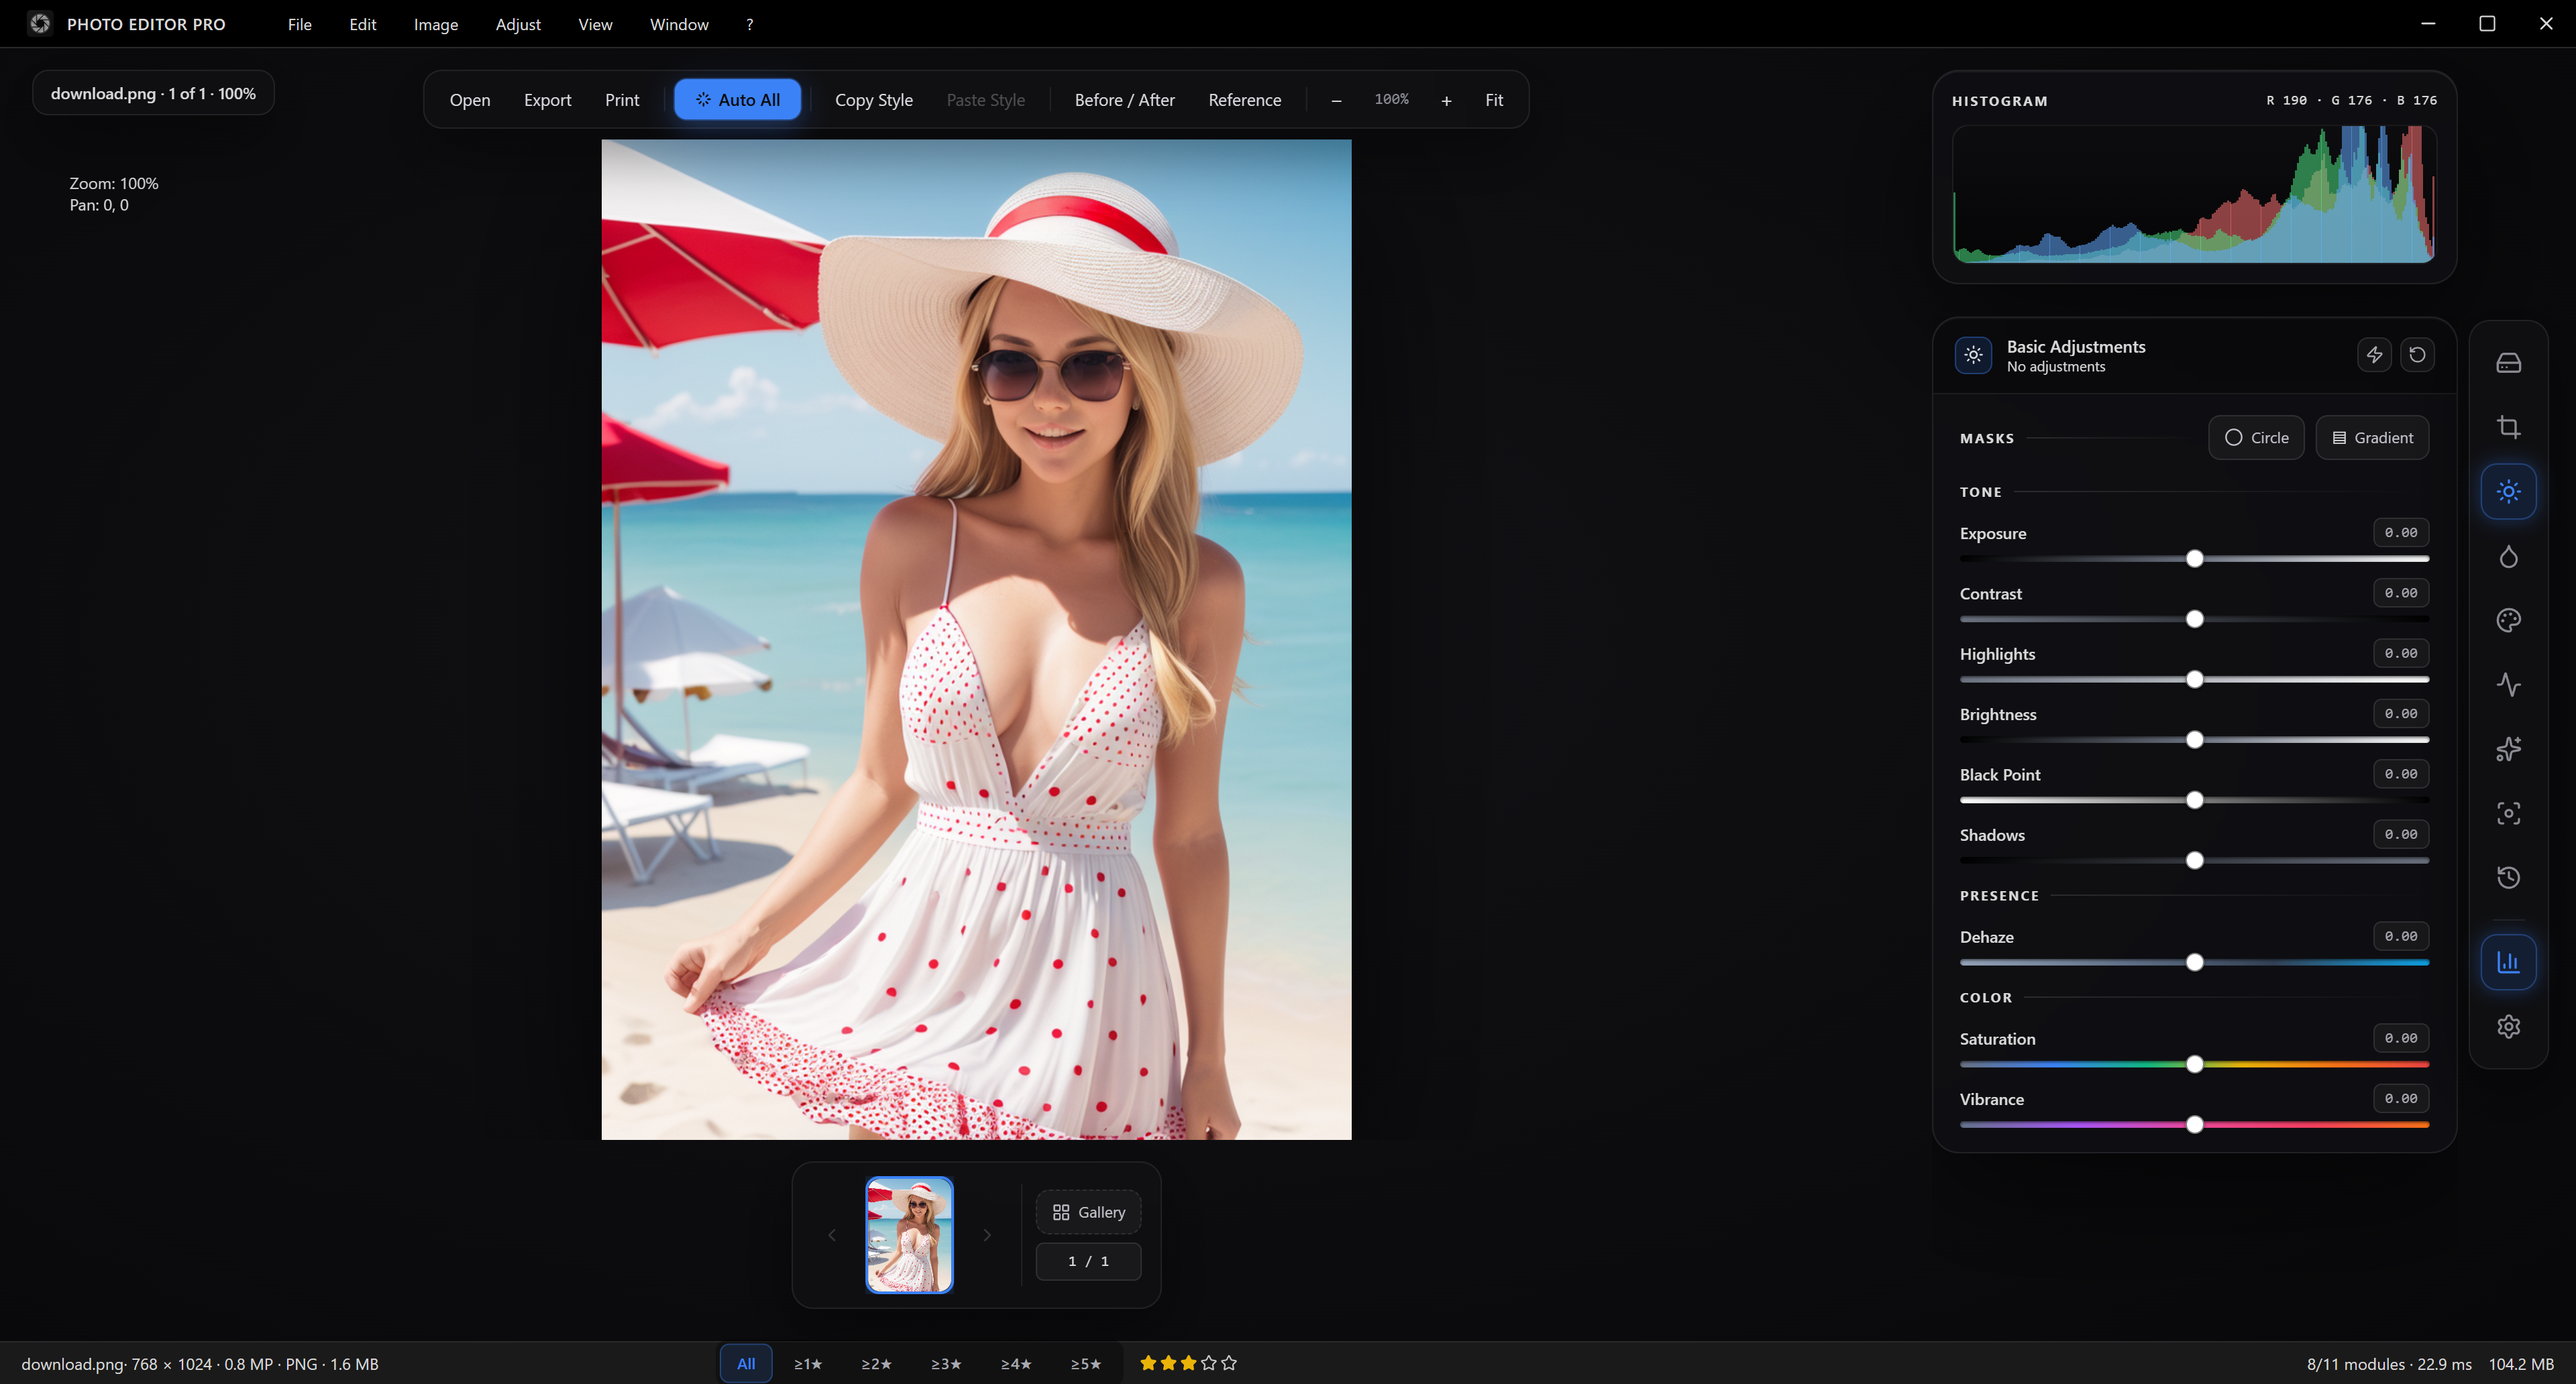
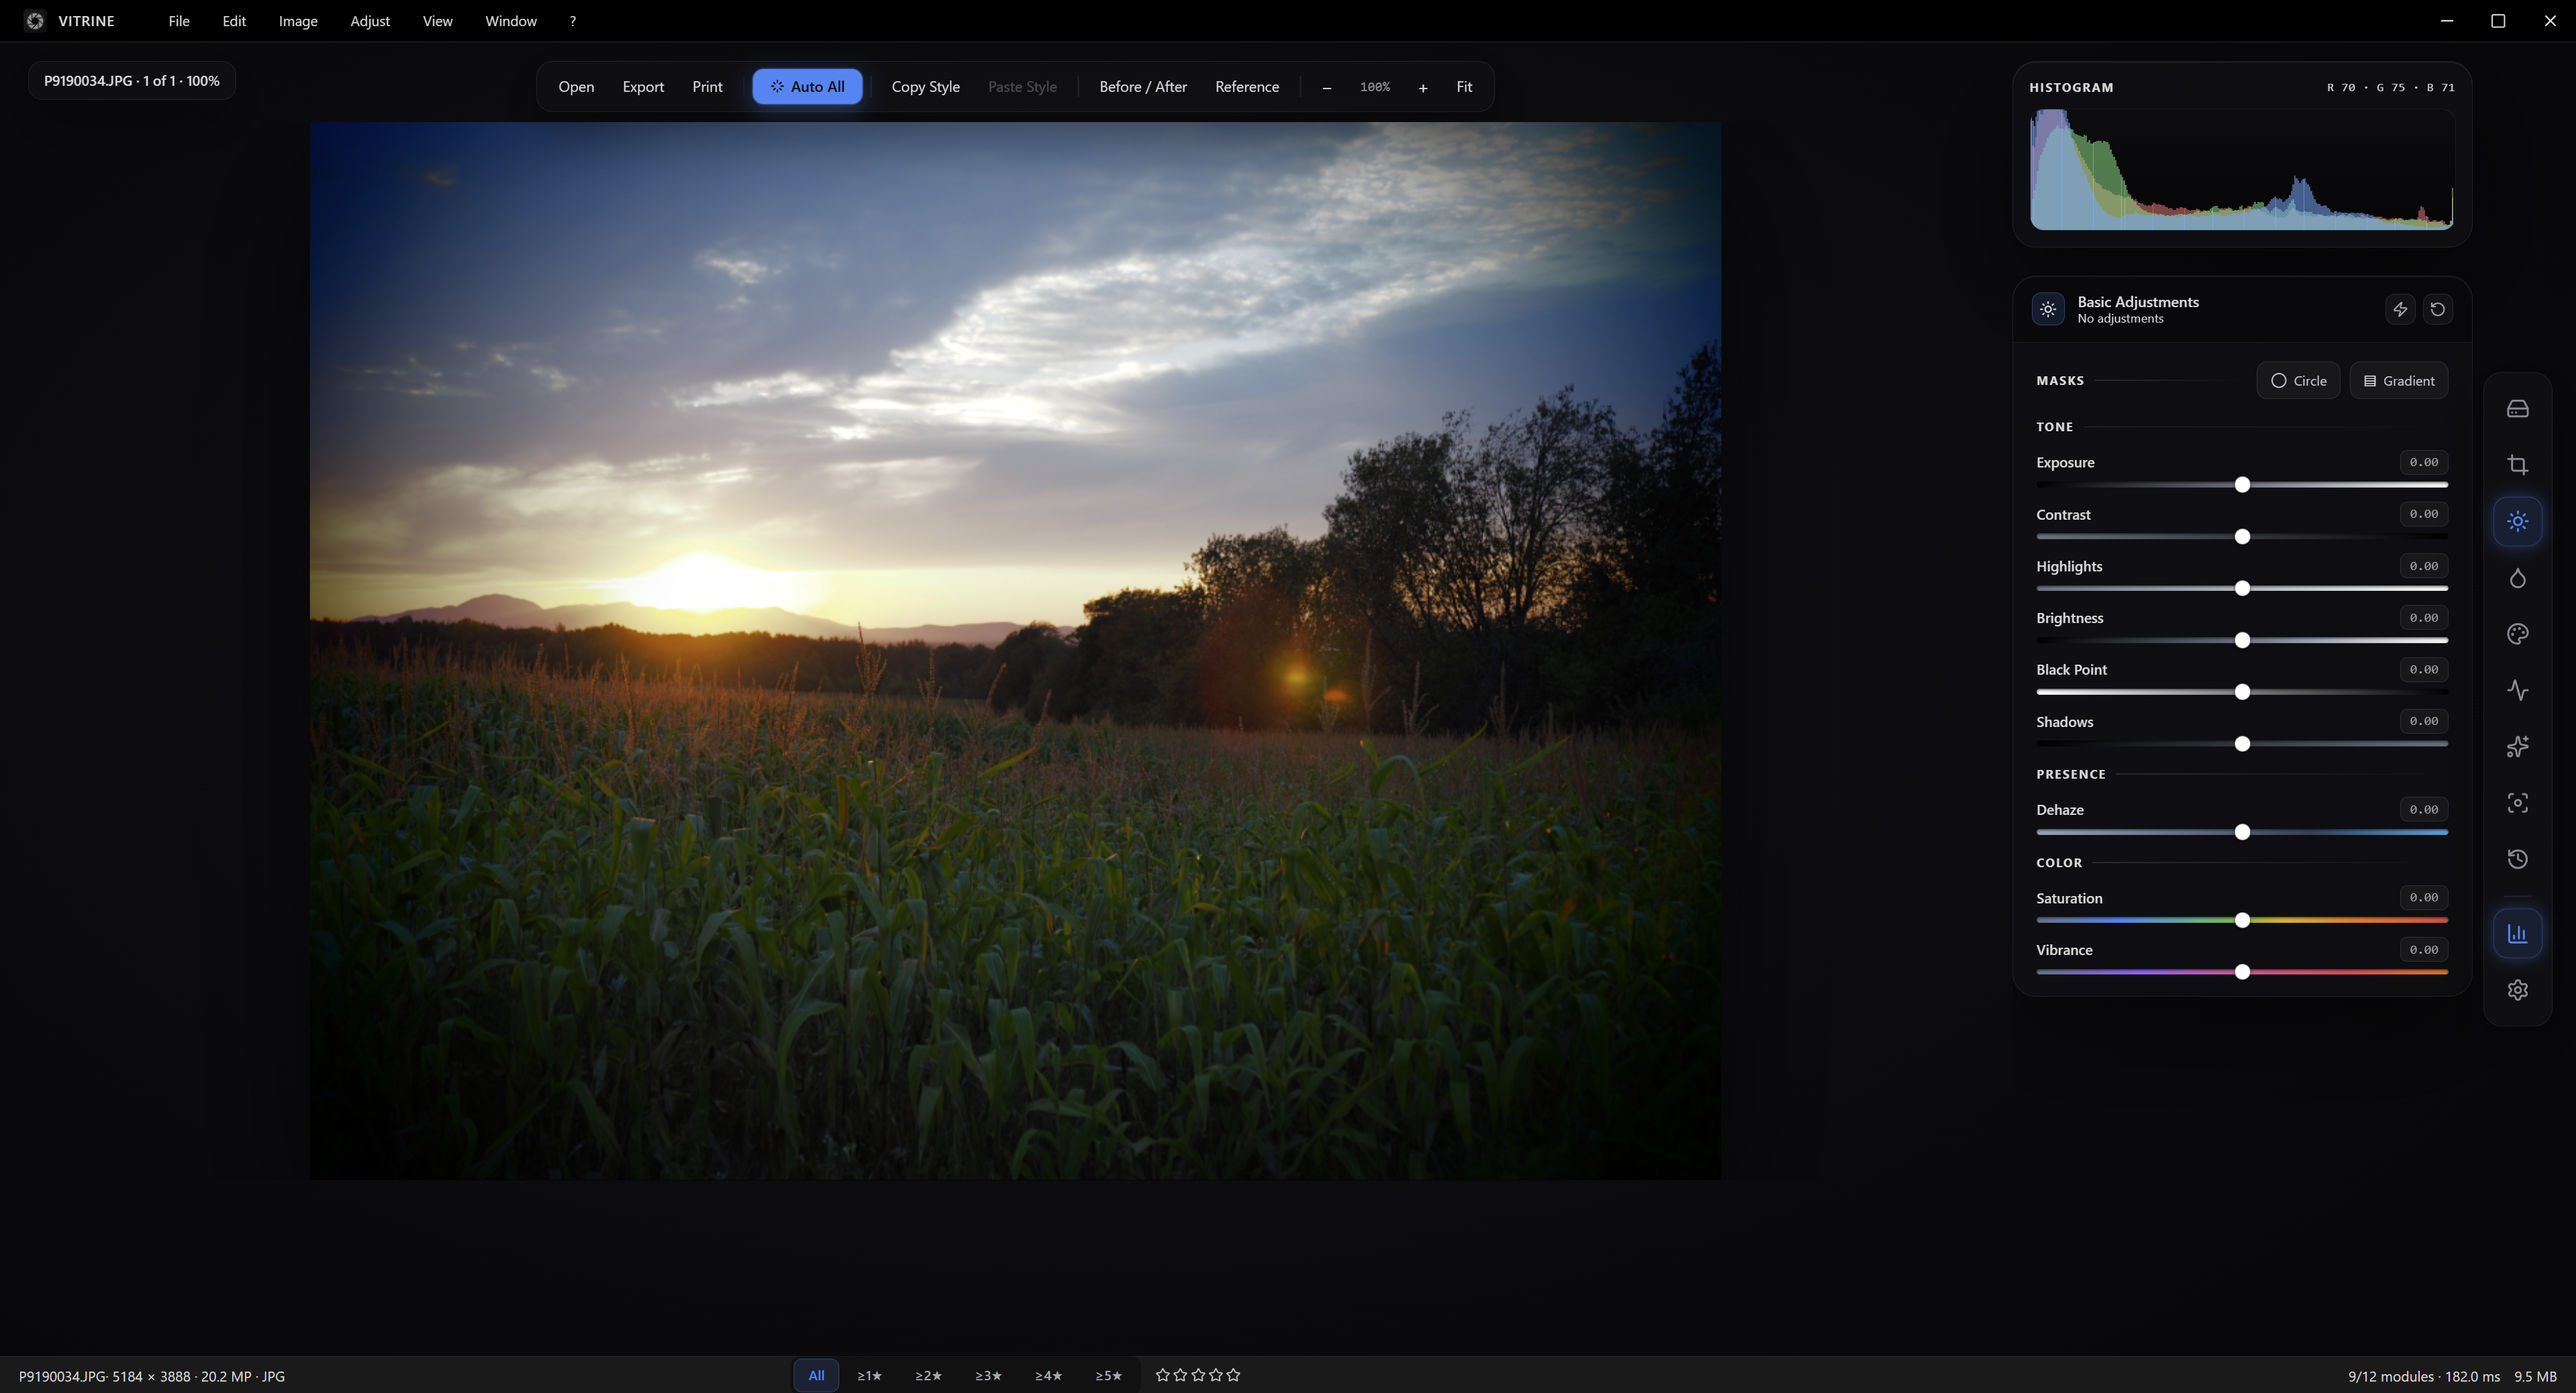
docs(readme): approachable rewrite + fresh Vitrine screenshots
The README hero still showed the old 'Photo Editor Pro' wordmark and led with
developer-speak; the GitHub About was empty. Rework for a newcomer:

- Recapture every screenshot from the current (Vitrine-branded) app. Hero +
  adjustment/tool crops use a finished JPG (the app displays it as-is, showing
  the developed look); the RAW-only shots (RAW Decode panel, camera/lens EXIF)
  and the raw->developed Before/After use a native Olympus ORF.
- Rewrite the top: a photographer-facing pitch + a 'Why Vitrine' highlights
  list, replacing the Electron/WebGL jargon.
- Lead Installation with the one-step download; scope dev prerequisites to the
  build-from-source path; fix the stale 'cd photo_app' -> 'cd vitrine', the
  1.11.0 -> 1.24.0 installer name, cross-platform -> Windows, and the 1087 ->
  1834 test count.
- Add an 'A closer look' visual showcase (before/after, RAW features, and a
  six-panel tool grid).
- Add scripts/capture-shots.cjs (Playwright _electron) to regenerate these
  shots; photo paths come from SHOT_GENERAL / SHOT_RAW env vars.

GitHub About (description + 16 topics) set separately via the API.

diff --git a/README.md b/README.md
@@ -15,50 +15,83 @@
 
 ![Vitrine](docs/screenshot.png)
 
-**Vitrine** — the darkroom, behind glass.
+> **Vitrine** — *the darkroom, behind glass.*
 
-A **desktop RAW photo editor** built with Electron + React, featuring a WebGL2/CPU
-processing pipeline, native LibRaw demosaicing, colour-managed export, and
-non-destructive local adjustments.
+**Vitrine is a free RAW photo editor for Windows.** Open a photo straight off your
+camera — Olympus, Canon, Nikon, Sony, Panasonic, or Adobe DNG — and develop it
+non-destructively: exposure and colour, tone curves, local masks, lens fixes, AI
+denoise and upscaling, then export in the format and colour space you need. Every
+edit is saved per photo and re-applied when you reopen it; your original file is
+never touched.
 
-*A free, non-destructive RAW photo editor for Windows — a lightweight alternative to Lightroom and darktable for Olympus ORF, Canon CR2/CR3, Nikon NEF, Sony ARW, and Adobe DNG files.*
+It's a lightweight, no-subscription alternative to Lightroom and darktable, with a
+clean full-screen **glass workspace** that keeps every tool one click away.
+
+### Why Vitrine
+
+- 📷 **Real RAW** — native LibRaw decoding for 15+ camera formats (CR2/CR3, NEF, ARW, ORF, DNG, RW2, PEF…), with per-photo demosaic and highlight-recovery control.
+- ⚡ **Fast** — a GPU pipeline develops your edits in real time; RAW files open in ~0.5 s (embedded preview) while the full 16-bit decode swaps in behind the scenes.
+- ✨ **AI where it counts** — Real-ESRGAN ×2/×4 super-resolution and NAFNet motion-deblur run on your GPU, alongside classic denoise, sharpen, and dehaze.
+- 🎨 **Truly non-destructive** — adjustments are stored per image and replayed on reopen; the source file is never modified.
+- 🆓 **Free, no account** — download the installer and start editing. No sign-up, no subscription.
 
 ## Installation
 
-### Prerequisites
-- Node.js 18+ and a package manager (the repo is set up for **pnpm**; npm also works)
-- Windows, macOS, or Linux · 8 GB+ RAM (16 GB+ recommended for large RAW files)
+### Download (recommended)
 
-### Option A — Prebuilt installer (Windows)
+**Just want to use Vitrine?** Download the latest **`Vitrine Setup X.Y.Z.exe`** from the
+[**Releases**](https://github.com/Redrum624/vitrine/releases) page and run it — no other
+software required. The installer adds a desktop shortcut and a Start Menu entry.
 
-Download the latest `Vitrine Setup X.Y.Z.exe` from the
-[Releases](https://github.com/Redrum624/vitrine/releases) page and run it.
-The installer creates a desktop shortcut and Start Menu entry; no extra
-dependencies are needed.
+- **Windows 10 or 11** (64-bit)
+- 8 GB RAM minimum · 16 GB+ recommended for large RAW files
 
-### Option B — Install & run from source (development)
+### Build from source
+
+For development, or to build your own installer. Requires **Node.js 18+** (the repo uses
+**pnpm**; npm also works). Windows is the supported target.
 
 ```bash
 git clone https://github.com/Redrum624/vitrine.git
-cd photo_app
+cd vitrine
 pnpm install            # or: npm install
-pnpm run electron-dev   # Vite dev server + Electron
+pnpm run electron-dev   # Vite dev server + Electron (opens automatically on port 3005)
 ```
 
-The app opens automatically once the Vite dev server is ready (port 3005).
-
-### Option C — Build a Windows release from source
+Build a distributable Windows installer:
 
 ```bash
 npm run build:win       # clean -> tsc + vite build -> NSIS installer -> collect into installer/
-# Output: installer/Vitrine Setup 1.11.0.exe (+ README.txt, LICENSE, THIRD-PARTY-LICENSES.md)
+# Output: installer/Vitrine Setup 1.24.0.exe (+ README.txt, LICENSE, THIRD-PARTY-LICENSES.md)
 npm run build:win:dir   # fast unpacked build (no installer, quick iteration)
-npm run dist            # electron-builder for the current platform
 ```
 
 The user-facing distributables are collected into a clean **`installer/`** folder at the repo root:
 the versioned `Setup ….exe`, a plain-text `README.txt`, `LICENSE`, and `THIRD-PARTY-LICENSES.md`.
 electron-builder's full staging output (unpacked app, block maps) stays in `release/`.
+
+## A closer look
+
+**One RAW file, developed non-destructively** — straight off the camera on the left, finished on the right.
+
+![Before and after — RAW to developed](docs/shots/before-after.png)
+
+**RAW, handled properly.** Choose the demosaic algorithm and highlight-recovery mode per photo, and read camera/lens details straight from the RAW container.
+
+| RAW Decode (per-photo) | Camera & lens, from the RAW |
+|:--:|:--:|
+| ![RAW Decode panel](docs/shots/raw-decode.png) | ![Camera and lens EXIF](docs/shots/exif.png) |
+
+**Every tool in one consistent card system** — a floating glass workspace where each module reads the same.
+
+| | |
+|:--:|:--:|
+| ![Basic Adjustments](docs/shots/basic-adjustments.png) | ![Enhance](docs/shots/enhance.png) |
+| **Basic Adjustments** — exposure, tone & colour, with mask tools | **Enhance** — AI denoise, sharpen, upscale & motion-deblur |
+| ![Tone Curve](docs/shots/tone-curve.png) | ![Color Balance](docs/shots/color-balance.png) |
+| **Tone Curve** — master + per-channel RGB | **Color Balance** — 8-channel HSL grading |
+| ![White Balance](docs/shots/white-balance.png) | ![Crop & Transform](docs/shots/crop-transform.png) |
+| **White Balance** — temp/tint + auto-neutral | **Crop & Transform** — ratios, rotate, auto-straighten |
 
 ## Modules
 
@@ -133,7 +166,7 @@ npm run dev          # dev server (vite) + Electron via scripts/dev.cjs
 npm run build        # tsc + vite build
 npm run typecheck    # tsc --noEmit
 npm run lint         # eslint (0 problems)
-npm run test         # jest (1087 tests)
+npm run test         # jest (1834 tests)
 npm run test:e2e     # Playwright end-to-end tests
 ```
 
